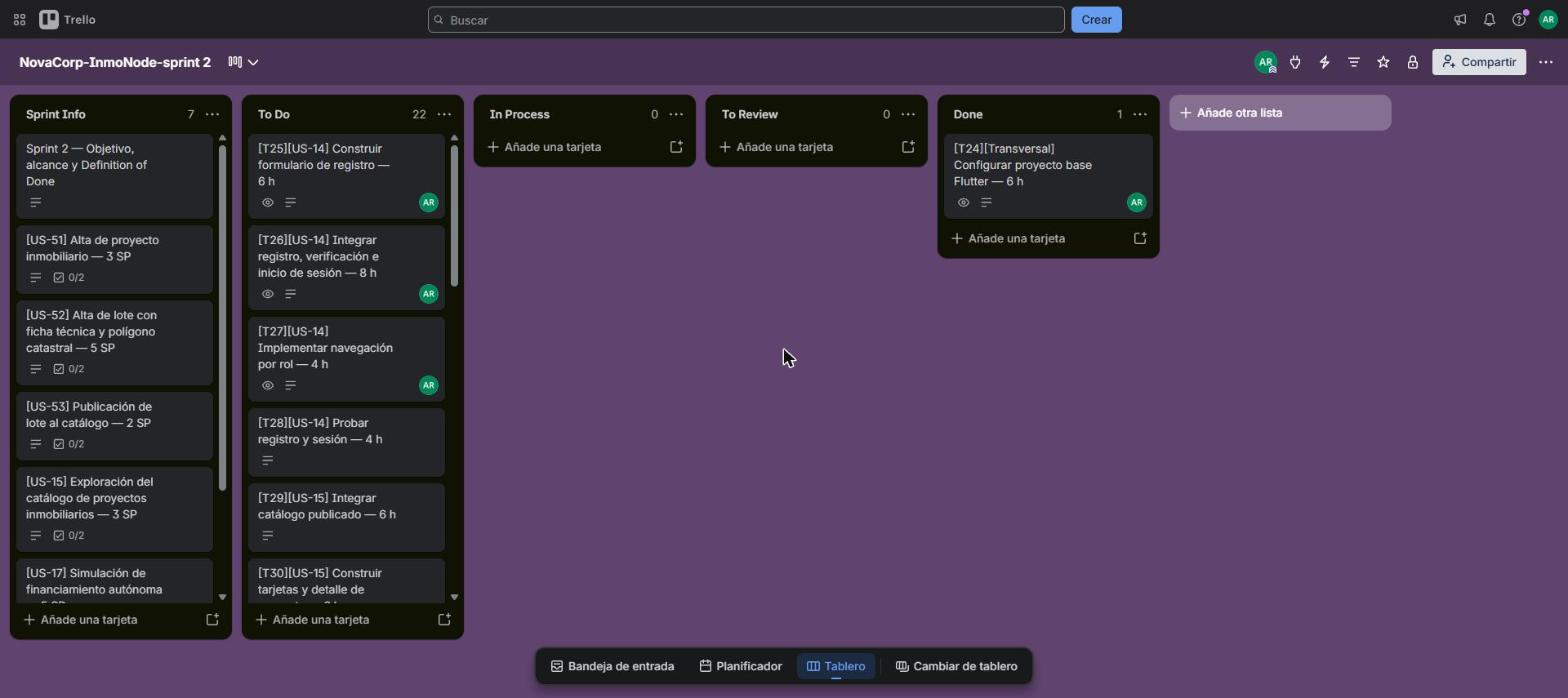
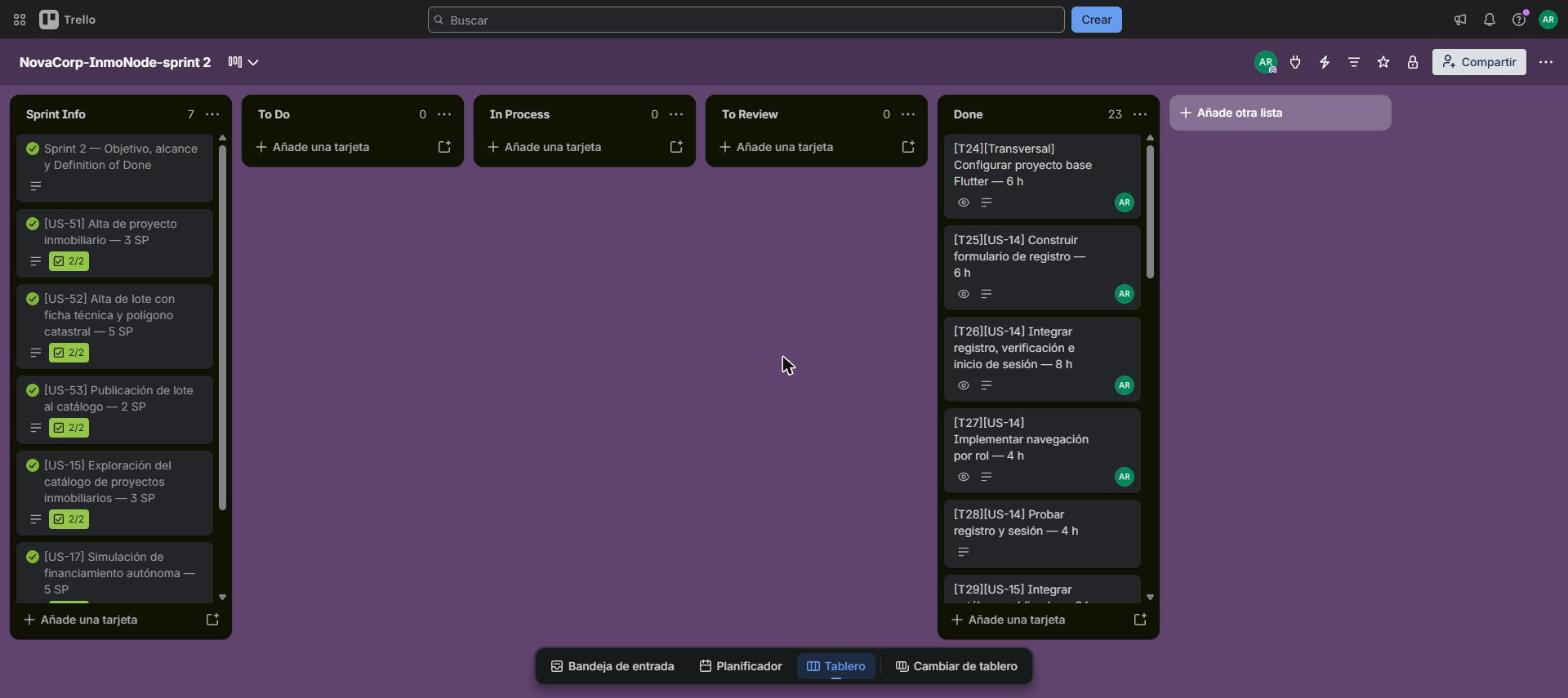
docs(report): show the closed Sprint 2 board in Figura 4.36

Changed region(s): [[0.0, 0.1805, 0.3125, 0.9327], [0.5938, 0.1805, 0.75, 0.9327], [0.5, 0.5115, 0.5312, 0.5415]]

diff --git a/docs/Chapter-04.md b/docs/Chapter-04.md
@@ -1046,19 +1046,19 @@ En el Sprint Planning 2 el equipo seleccionó del Product Backlog ([Tabla 2.60](
 
 El objetivo del Sprint 2 es llevar a la aplicación Flutter el autoservicio del comprador e inversionista, con el registro de cuenta, la exploración del catálogo y la simulación de financiamiento, y el back-office del catálogo, con el alta y la publicación de proyectos y lotes. El Sprint Backlog descompone las seis historias en 23 tareas, numeradas de T24 a T46 a continuación de las del Sprint 1 y estimadas entre 4 y 8 horas, con un total de 126 horas. Las tareas de interfaz de US-51, US-52, US-53 y US-15 reemplazan a T01, T04, T07 y T13 del Sprint 1, que quedaron en To Do, y T42 continúa la aceptación automatizada BDD de T19. Según lo acordado en la retrospectiva, la carga se reparte entre 22 y 28 horas por integrante y todos participan en la aplicación Flutter.
 
-El tablero está disponible en [Trello: NovaCorp-InmoNode Sprint 2](https://trello.com/b/ypAZHG4h/novacorp-inmonode-sprint-2) y la [Figura 4.36](#figura-4-36) muestra su estado al 2026-11-10.
+El tablero está disponible en [Trello: NovaCorp-InmoNode Sprint 2](https://trello.com/b/ypAZHG4h/novacorp-inmonode-sprint-2) y la [Figura 4.36](#figura-4-36) muestra su estado al cierre del Sprint, el 2026-11-12.
 
 <a id="figura-4-36"></a>
 
 **Figura 4.36**
 
-*Tablero del Sprint 2 en Trello al 2026-11-10*
+*Tablero del Sprint 2 en Trello al 2026-11-12*
 
 <p align="center">
 <img src="../assets/sprint2.jpg" alt="Tablero del Sprint 2 en Trello con las columnas Sprint Info, To Do, In Process, To Review y Done" width="1000" style="max-width: 100%; height: auto;"/>
 </p>
 
-El tablero contiene el objetivo y la Definition of Done, las seis historias con sus criterios de aceptación y las 23 tareas con su descripción, estimación y responsable. A la fecha de la captura se registran 22 tareas en To Do y una en Done. La [Tabla 4.21](#tabla-4-21) presenta el estado de cada tarea al cierre del Sprint, el 2026-11-12, cuando las 23 tareas se encuentran en Done.
+El tablero contiene el objetivo y la Definition of Done, las seis historias con sus criterios de aceptación y las 23 tareas con su descripción, estimación y responsable. A la fecha de la captura las 23 tareas se encuentran en Done, y la tarjeta del objetivo y las seis historias están marcadas como completas, cada historia con sus dos criterios de aceptación cumplidos (2/2). La [Tabla 4.21](#tabla-4-21) presenta el estado de cada tarea.
 
 <a id="tabla-4-21"></a>
 
